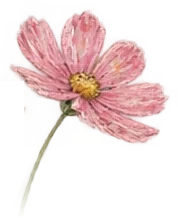
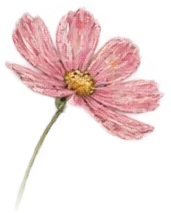
Memory flowers: choose a species when planting, ribbon marks it in the garden
Notes v6 gains gardenFlower (cosmos, daisy, poppy, lavender, allium or null for the
default); v6 snapshots without it load with null. Trồng vào vườn opens a flower picker
in Góc ghi chép, a planted note shows its flower with Đổi hoa and Nhổ khỏi vườn, and
the garden grows each memory's species with a pink ribbon instead of a white halo.
Species are cut from the approved meadow and spires art.

diff --git a/js/notes/board.js b/js/notes/board.js
@@ -1,4 +1,4 @@
-import { clampPaperSize, isMemory, MEMORY_LABEL as MEMORY } from './model.js';
+import { clampPaperSize, gardenFlower, GARDEN_FLOWERS, isMemory, MEMORY_LABEL as MEMORY } from './model.js';
 import { mountBoardPresence } from './editor.js';
 import { authEvents, getUser } from '../auth.js';
 
@@ -29,6 +29,29 @@ function button(label, action, mutation = false) {
   const node = element('button', 'notes-button', label); node.type = 'button'; node.dataset.action = action;
   if (mutation) node.dataset.mutation = '';
   return node;
+}
+const flowerImage = id => new URL(`../../assets/flowers/memory-${id}.webp`, import.meta.url).href;
+/** Flower picker for planting a memory: a radio group of the garden species; onSubmit receives the chosen id. */
+export function pickFlower(container, { current = null, planted = false, signal, onSubmit }) {
+  const dialog = element('dialog', 'notes-dialog notes-flower-dialog'); dialog.setAttribute('aria-labelledby', 'notes-flower-title');
+  const form = element('form', 'notes-flower-form'), group = element('fieldset', 'notes-flower-options');
+  const legend = element('legend', '', planted ? 'Đổi hoa cho kỷ niệm' : 'Chọn hoa để trồng vào vườn'); legend.id = 'notes-flower-title'; group.append(legend);
+  const chosen = gardenFlower(current).id;
+  for (const flower of GARDEN_FLOWERS) {
+    const option = element('label', 'notes-flower-option'), input = document.createElement('input'), image = document.createElement('img');
+    input.type = 'radio'; input.name = 'flower'; input.value = flower.id; input.checked = flower.id === chosen;
+    image.src = flowerImage(flower.id); image.alt = ''; image.width = 56; image.height = 64; image.draggable = false;
+    option.append(input, image, element('span', '', flower.name)); group.append(option);
+  }
+  const submit = button(planted ? 'Đổi hoa' : '🌱 Trồng vào vườn', 'flower-save'); submit.type = 'submit';
+  const cancel = button('Hủy', 'flower-cancel'); cancel.onclick = () => dialog.close();
+  const actions = element('div', 'notes-flower-actions'); actions.append(cancel, submit);
+  form.append(group, actions); dialog.append(form); container.append(dialog);
+  const close = () => { if (dialog.open) dialog.close(); dialog.remove(); signal?.removeEventListener('abort', close); };
+  dialog.addEventListener('close', close, { once: true }); signal?.addEventListener('abort', close, { once: true });
+  form.addEventListener('submit', event => { event.preventDefault(); const id = form.elements.flower.value; close(); onSubmit(id); });
+  dialog.showModal(); form.querySelector('input:checked').focus();
+  return close;
 }
 /** option: label of an extra checkbox; onSubmit then also receives whether it is checked. */
 export function askName(container, { title, value = '', option = '', signal, onSubmit }) {
@@ -129,7 +152,7 @@ export function mountBoard(container, { client, signal, mountEditor, mountMedia,
     const entity = selected(); inspector.hidden = !state?.writable || !entity;
     if (inspector.hidden) { inspector.replaceChildren(); inspectorKey = ''; return; }
     const columns = state.snapshot.columns.filter(c => !c.deletedAt);
-    const key = `${selection.kind}:${entity.id}:${columns.map(c => c.id + c.name).join()}:${entity.visibility}:${entity.labels?.join('|')}:${entity.memoryDate}:${entity.garden}`;
+    const key = `${selection.kind}:${entity.id}:${columns.map(c => c.id + c.name).join()}:${entity.visibility}:${entity.labels?.join('|')}:${entity.memoryDate}:${entity.garden}:${entity.gardenFlower}`;
     if (key === inspectorKey) {
       const select = inspector.querySelector('select'); if (select && document.activeElement !== select) select.value = entity.columnId || '';
       for (const field of ['width', 'height']) { const input = inspector.querySelector(`[name=${field}]`); if (input && document.activeElement !== input) input.value = Math.round(entity[field]); }
@@ -165,8 +188,10 @@ export function mountBoard(container, { client, signal, mountEditor, mountMedia,
       if (isMemory(entity.labels)) {
         const memory = element('div', 'notes-memory-edit'), dateLabel = element('label', '', 'Ngày kỷ niệm'), date = document.createElement('input');
         date.type = 'date'; date.name = 'memoryDate'; date.value = entity.memoryDate || ''; date.dataset.action = 'note-memory-date'; date.dataset.mutation = ''; dateLabel.append(date);
-        const garden = button(entity.garden ? 'Nhổ khỏi vườn' : '🌱 Trồng vào vườn', 'note-garden', true); garden.setAttribute('aria-pressed', String(entity.garden));
-        memory.append(dateLabel, garden); inspector.append(memory);
+        memory.append(dateLabel);
+        if (entity.garden) memory.append(element('span', 'notes-garden-flower', `🌱 ${gardenFlower(entity.gardenFlower).name}`), button('Đổi hoa', 'note-garden-pick', true), button('Nhổ khỏi vườn', 'note-garden-remove', true));
+        else memory.append(button('🌱 Trồng vào vườn', 'note-garden-pick', true));
+        inspector.append(memory);
       }
     } else inspector.append(button('Đổi tên cột', 'column-rename', true));
     inspector.append(button('Bỏ vào thùng rác', 'object-trash', true));
@@ -244,7 +269,7 @@ export function mountBoard(container, { client, signal, mountEditor, mountMedia,
         const view = effectiveView(state.snapshot?.visibility, entity.visibility);
         const memory = isMemory(entity.labels);
         const badges = [[viewLabel(view), `note-view is-${view === 'public' || view === 'shared' ? view : 'private'}`], ...(entity.labels || []).map(label => [label, isMemory([label]) ? 'note-label is-memory' : 'note-label']),
-          ...(memory && entity.memoryDate ? [[dayLabel(entity.memoryDate), 'note-label is-memory-date']] : []), ...(memory && entity.garden ? [['🌱 Trong vườn', 'note-label is-garden']] : [])];
+          ...(memory && entity.memoryDate ? [[dayLabel(entity.memoryDate), 'note-label is-memory-date']] : []), ...(memory && entity.garden ? [[`🌱 ${gardenFlower(entity.gardenFlower).name}`, 'note-label is-garden']] : [])];
         const badgeKey = JSON.stringify(badges);
         if (record.badgeKey !== badgeKey) { record.badgeKey = badgeKey; record.badges.replaceChildren(...badges.map(([text, className]) => element('span', className, text))); }
         record.node.classList.toggle('is-filtered', !!filter && !entity.labels?.includes(filter));
@@ -337,7 +362,8 @@ export function mountBoard(container, { client, signal, mountEditor, mountMedia,
       if (action === 'note-color') await mutate('note.update',{id:entity.id,color:control.dataset.color});
       if (action === 'label-remove') await mutate('note.update',{id:entity.id,labels:entity.labels.filter(label=>label!==control.dataset.label)});
       if (action === 'label-memory') await addLabel(entity, MEMORY);
-      if (action === 'note-garden') await mutate('note.update',{id:entity.id,garden:!entity.garden});
+      if (action === 'note-garden-pick') pickFlower(root,{current:entity.gardenFlower,planted:entity.garden,signal:controller.signal,onSubmit:id=>run(()=>mutate('note.update',{id:entity.id,garden:true,gardenFlower:id}))});
+      if (action === 'note-garden-remove') await mutate('note.update',{id:entity.id,garden:false});
       if (action === 'label-add') { const input = inspector.querySelector('[name=label]'); await addLabel(entity, input.value); }
       if (action === 'object-trash') await mutate(`${selection.kind}.trash`,{id:entity.id});
       if (action === 'column-rename') askName(root,{title:'Đổi tên cột',value:entity.name,signal:controller.signal,onSubmit:name=>run(()=>mutate('column.update',{id:entity.id,name}))});

diff --git a/js/notes/model.js b/js/notes/model.js
@@ -13,6 +13,12 @@ export const MEMORY_LABEL = 'Kỷ niệm';
 export function isMemory(labels) {
   return (labels ?? []).some(label => label.normalize('NFC').toLocaleLowerCase('vi') === MEMORY_LABEL.toLocaleLowerCase('vi'));
 }
+// Flowers a planted memory can grow as (assets/flowers/memory-<id>.webp); null means the first one.
+export const GARDEN_FLOWERS = Object.freeze([
+  { id: 'cosmos', name: 'Cánh bướm hồng' }, { id: 'daisy', name: 'Cúc họa mi' }, { id: 'poppy', name: 'Anh túc cam' },
+  { id: 'lavender', name: 'Oải hương' }, { id: 'allium', name: 'Cầu tím' },
+].map(Object.freeze));
+export const gardenFlower = id => GARDEN_FLOWERS.find(flower => flower.id === id) ?? GARDEN_FLOWERS[0];
 export function notesError(code, message = code, status = 400) {
   return Object.assign(new Error(message), { code, status });
 }
@@ -110,7 +116,7 @@ function checkEntity(kind, value) {
   const fields = {
     board: ['id', 'name', 'authorId', 'visibility', 'noteDefault', 'revision', 'metadataRevision', 'deletedAt'],
     column: ['id', 'boardId', 'name', ...geometry, 'revision', 'deletedAt'],
-    note: ['id', 'boardId', 'columnId', 'authorId', ...geometry, 'color', 'visibility', 'labels', 'memoryDate', 'garden', 'revision', 'deletedAt'],
+    note: ['id', 'boardId', 'columnId', 'authorId', ...geometry, 'color', 'visibility', 'labels', 'memoryDate', 'garden', 'gardenFlower', 'revision', 'deletedAt'],
     // Stickers live on the board in world coordinates; noteId/columnId (at most one) is what they follow when moved or trashed.
     decoration: ['id', 'boardId', 'noteId', 'columnId', 'assetId', ...geometry, 'rotation', 'z', 'revision', 'deletedAt'],
   };
@@ -130,6 +136,7 @@ function checkEntity(kind, value) {
       if (normalizeLabels(value.labels).some((label, i) => label !== value.labels[i])) throw notesError('invalid_labels');
       memoryDate(value.memoryDate);
       if (typeof value.garden !== 'boolean' || (value.garden && !isMemory(value.labels))) throw notesError('invalid_garden');
+      if (value.gardenFlower !== null && !GARDEN_FLOWERS.some(flower => flower.id === value.gardenFlower)) throw notesError('invalid_garden_flower');
     }
     if (kind === 'decoration') {
       requireId(value.assetId); number(value.rotation); number(value.z);
@@ -243,11 +250,11 @@ export function applyMetadataCommand(current, userId, command, { now = new Date(
       requireKeys(p, ['id', 'name', ...geometry]);
       entity = add(kind, { ...p, name: name(p.name), boardId, revision: 1, deletedAt: null });
     } else if (kind === 'note') {
-      requireKeys(p, ['id', 'columnId', ...geometry, 'color'], ['visibility', 'labels', 'memoryDate', 'garden']);
+      requireKeys(p, ['id', 'columnId', ...geometry, 'color'], ['visibility', 'labels', 'memoryDate', 'garden', 'gardenFlower']);
       if (p.columnId !== null) active(state, 'column', mustFind(state, 'column', p.columnId, boardId));
       // A journal board's pages start private even when an older or offline client leaves visibility out.
       const visibility = board.noteDefault === 'private' && !('visibility' in p) ? userId : null;
-      entity = add(kind, { visibility, memoryDate: null, garden: false, ...p, labels: normalizeLabels(p.labels ?? []), boardId, authorId: userId, revision: 1, deletedAt: null });
+      entity = add(kind, { visibility, memoryDate: null, garden: false, gardenFlower: null, ...p, labels: normalizeLabels(p.labels ?? []), boardId, authorId: userId, revision: 1, deletedAt: null });
     } else if (kind === 'decoration' && action === 'add') {
       requireKeys(p, ['id', 'assetId', ...geometry, 'rotation', 'z'], ['noteId', 'columnId']);
       checkAttachment(state, p, boardId, userId);
@@ -262,7 +269,7 @@ export function applyMetadataCommand(current, userId, command, { now = new Date(
       touch(kind, entity, () => { entity.deletedAt = action === 'restore' ? null : now; });
     } else if (action === 'update' || (kind === 'note' && action === 'move')) {
       const allowed = kind === 'column' ? ['name', ...geometry] : kind === 'note'
-        ? action === 'move' ? ['columnId', 'x', 'y'] : [...geometry, 'color', 'visibility', 'labels', 'memoryDate', 'garden'] : [...geometry, 'rotation', 'z', 'noteId', 'columnId'];
+        ? action === 'move' ? ['columnId', 'x', 'y'] : [...geometry, 'color', 'visibility', 'labels', 'memoryDate', 'garden', 'gardenFlower'] : [...geometry, 'rotation', 'z', 'noteId', 'columnId'];
       requireKeys(p, ['id'], allowed);
       if (Object.keys(p).length === 1) throw notesError('invalid_fields');
       active(state, kind, entity);

diff --git a/js/tabs/garden.js b/js/tabs/garden.js
@@ -1,9 +1,14 @@
 // The garden tab owns lettering and the memory flowers; the shell owns the landscape.
 import { apiRequest, authEvents, getUser } from '../auth.js';
+import { gardenFlower } from '../notes/model.js';
 
 const FOCUS_KEY = 'homie-notes:focus';
 const NAME = { minhle: 'Minh', haiyen: 'Yến' };
-const FLOWER = new URL('../../assets/flowers/memory-cosmos.webp', import.meta.url).href;
+// Per species: height relative to the others (so a round allium does not dwarf a lavender spike) and where on the
+// picture (% from the left/top) the ribbon is tied around its stem.
+const SPECIES = { cosmos: [1, 22, 70], daisy: [0.86, 69, 70], poppy: [0.96, 72, 72], lavender: [1.08, 27, 80], allium: [0.8, 52, 84] };
+// A ribbon bow marks a memory flower; it is a bow, not a flower, so it may be drawn here.
+const RIBBON = '<svg class="memory-ribbon" viewBox="0 0 40 30" aria-hidden="true"><path d="M20 13C12 3 2 5 4 12s10 5 16 3zM20 13c8-10 18-8 16-1s-10 5-16 3z" fill="#e98fab" stroke="#c76687" stroke-width="1.6" stroke-linejoin="round"/><path d="M19 15l-6 13 4-1 3-10 3 10 4 1-6-13z" fill="#e98fab" stroke="#c76687" stroke-width="1.6" stroke-linejoin="round"/><circle cx="20" cy="14" r="3.2" fill="#c76687"/></svg>';
 // Stem-base spots inside the meadow band, as % of the viewport: clear of the lettering and both Loopy.
 const WIDE = [[30, 71], [41, 70], [51, 71], [61, 70], [71, 71], [81, 69], [35, 83], [46, 84], [56, 83], [66, 84],
   [27, 95], [38, 96], [49, 95], [59, 96], [69, 95]];
@@ -103,13 +108,18 @@ export function render(container, { signal } = {}) {
       flower.type = 'button';
       flower.className = 'memory-flower';
       flower.setAttribute('aria-label', `Hoa kỷ niệm: ${item.title || 'Kỷ niệm'}`);
-      flower.style.cssText = `--x:${wide[0]};--y:${wide[1]};--px:${phone[0]};--py:${phone[1]};--sx:${short[0]};--sy:${short[1]};--size:${0.92 + (h % 5) * 0.04};--delay:${-(h % 7)}s`;
-      if (h & 1) flower.classList.add('is-mirrored');
+      const species = gardenFlower(item.gardenFlower).id, [scale, rx, ry] = SPECIES[species];
+      flower.dataset.flower = species;
+      flower.style.cssText = `--x:${wide[0]};--y:${wide[1]};--px:${phone[0]};--py:${phone[1]};--sx:${short[0]};--sy:${short[1]};--size:${scale * (0.94 + (h % 5) * 0.03)};--rx:${rx}%;--ry:${ry}%;--delay:${-(h % 7)}s`;
+      const stem = document.createElement('span');
+      stem.className = h & 1 ? 'memory-plant is-mirrored' : 'memory-plant';
+      stem.innerHTML = RIBBON;
       const picture = document.createElement('img');
-      picture.src = FLOWER;
+      picture.src = new URL(`../../assets/flowers/memory-${species}.webp`, import.meta.url).href;
       picture.alt = '';
       picture.draggable = false;
-      flower.append(picture);
+      stem.prepend(picture);
+      flower.append(stem);
       flower.addEventListener('click', () => openMemory(item, flower));
       return flower;
     }));

diff --git a/tests/notes-model.test.js b/tests/notes-model.test.js
@@ -1,7 +1,7 @@
 import test from 'node:test';
 import assert from 'node:assert/strict';
 import { randomUUID } from 'node:crypto';
-import { emptyNotesState, applyMetadataCommand, projectBoard, validateNotesState, clampPaperSize } from '../js/notes/model.js';
+import { emptyNotesState, applyMetadataCommand, projectBoard, validateNotesState, clampPaperSize, GARDEN_FLOWERS, gardenFlower } from '../js/notes/model.js';
 
 const boardId = randomUUID(), columnId = randomUUID(), otherColumnId = randomUUID(), noteId = randomUUID();
 function apply(state, type, payload, accountId = 'minhle', board = boardId) {
@@ -103,6 +103,25 @@ test('journal boards and memories: noteDefault, memoryDate and garden only on a 
   assert.equal(state.notes[0].memoryDate, '2026-10-12', 'The date stays for when the label comes back');
   const created = apply(state, 'note.create', { id: randomUUID(), columnId: null, x: 0, y: 0, width: 100, height: 100, color: '#ffffff', labels: ['Kỷ niệm'], memoryDate: '2025-01-01', garden: true });
   assert.equal(created.notes.at(-1).garden, true);
+  assert.equal(created.notes.at(-1).gardenFlower, null, 'No flower chosen: the garden shows the default one');
+});
+
+test('gardenFlower: one of the garden species or null, chosen on create or update', () => {
+  let state = apply(fixture(), 'note.update', { id: noteId, labels: ['Kỷ niệm'], memoryDate: '2026-10-12' });
+  assert.equal(state.notes[0].gardenFlower, null);
+  for (const gardenFlower of ['rose', '', 1, 'Cosmos']) {
+    assert.throws(() => apply(state, 'note.update', { id: noteId, garden: true, gardenFlower }), { code: 'invalid_garden_flower' });
+  }
+  state = apply(state, 'note.update', { id: noteId, garden: true, gardenFlower: 'poppy' }, 'haiyen');
+  assert.deepEqual([state.notes[0].garden, state.notes[0].gardenFlower], [true, 'poppy']);
+  state = apply(state, 'note.update', { id: noteId, gardenFlower: 'lavender' });
+  assert.equal(state.notes[0].gardenFlower, 'lavender', 'Đổi hoa keeps it planted');
+  state = apply(state, 'note.update', { id: noteId, garden: false });
+  assert.deepEqual([state.notes[0].garden, state.notes[0].gardenFlower], [false, 'lavender'], 'Unplanting keeps the last choice');
+  const created = apply(state, 'note.create', { id: randomUUID(), columnId: null, x: 0, y: 0, width: 100, height: 100, color: '#ffffff', labels: ['Kỷ niệm'], garden: true, gardenFlower: 'daisy' });
+  assert.equal(created.notes.at(-1).gardenFlower, 'daisy');
+  assert.equal(gardenFlower(null).id, GARDEN_FLOWERS[0].id);
+  assert.equal(gardenFlower('allium').name, 'Cầu tím');
 });
 
 test('a journal page created without visibility stays private to its author on the server', () => {

diff --git a/tests/garden-api.test.js b/tests/garden-api.test.js
@@ -52,10 +52,10 @@ test('GET /api/garden: members see only visible planted memories, trash hides th
   const [open, journal] = [randomUUID(), randomUUID()];
   await command('minhle', open, 'board.create', { name: 'Vườn nhà mình', visibility: 'public' });
   await command('haiyen', journal, 'board.create', { name: 'Nhật ký của Yến', visibility: 'shared', noteDefault: 'private' });
-  const sea = await note('minhle', open, ['Đi biển Vũng Tàu', 'Gió to, cát bay.', 'Về muộn.'], { labels: ['Kỷ niệm'], memoryDate: '2026-10-12', garden: true });
+  const sea = await note('minhle', open, ['Đi biển Vũng Tàu', 'Gió to, cát bay.', 'Về muộn.'], { labels: ['Kỷ niệm'], memoryDate: '2026-10-12', garden: true, gardenFlower: 'poppy' });
   const unplanted = await note('minhle', open, ['Chưa trồng'], { labels: ['Kỷ niệm'], memoryDate: '2026-10-01', garden: false });
   const secret = await note('haiyen', journal, ['Bí mật của Yến'], { labels: ['Kỷ niệm'], memoryDate: '2026-09-01', garden: true, visibility: 'haiyen' });
-  const shared = await note('haiyen', journal, ['Bữa cơm đầu tiên'], { labels: ['Kỷ niệm'], memoryDate: '2026-11-02', garden: true });
+  const shared = await note('haiyen', journal, ['Bữa cơm đầu tiên'], { labels: ['Kỷ niệm'], memoryDate: '2026-11-02', garden: true, visibility: null });
   const trashed = await note('minhle', open, ['Sẽ vào thùng rác'], { labels: ['Kỷ niệm'], memoryDate: '2026-10-05', garden: true });
   await command('minhle', open, 'note.trash', { id: trashed });
 
@@ -63,7 +63,8 @@ test('GET /api/garden: members see only visible planted memories, trash hides th
   const minh = await garden('minhle');
   assert.deepEqual(minh.map(item => item.noteId), [sea, shared], 'Yến’s private page, unplanted and trashed memories stay out');
   assert.deepEqual(minh[0], { noteId: sea, boardId: open, boardName: 'Vườn nhà mình', title: 'Đi biển Vũng Tàu',
-    memoryDate: '2026-10-12', authorId: 'minhle', body: 'Gió to, cát bay.\nVề muộn.' });
+    memoryDate: '2026-10-12', gardenFlower: 'poppy', authorId: 'minhle', body: 'Gió to, cát bay.\nVề muộn.' });
+  assert.equal(minh[1].gardenFlower, null, 'No choice yet: the garden shows the default species');
   assert.deepEqual((await garden('haiyen')).map(item => item.noteId), [secret, sea, shared]);
   assert.ok(!(await garden('haiyen')).some(item => item.noteId === unplanted));
 

diff --git a/styles/garden-flowers.css b/styles/garden-flowers.css
@@ -1,12 +1,15 @@
 /* Phần G: hoa kỷ niệm trong vườn. Positions come from garden.js as % of the viewport (--x/--y wide, --px/--py phone). */
 .memory-flowers{position:absolute;inset:0;z-index:5;pointer-events:none}
-.memory-flower{--h:calc(clamp(72px,min(10vh,10.5vw),100px) * var(--size,1));position:absolute;left:calc(var(--x) * 1%);top:calc(var(--y) * 1%);width:calc(var(--h) * .82);min-width:44px;height:var(--h);min-height:44px;margin:0;padding:0;border:0;border-radius:40% 40% 12px 12px;background:radial-gradient(ellipse 56% 42% at 50% 34%,#fffe,#fff9 42%,#fff0 76%);transform:translate(-50%,-100%);pointer-events:auto;cursor:pointer;-webkit-tap-highlight-color:transparent}
-.memory-flower img{display:block;width:100%;height:100%;object-fit:contain;object-position:bottom;filter:drop-shadow(0 0 2px #fff) drop-shadow(0 0 10px #fff);transform-origin:50% 100%;transition:transform 200ms ease}
-.memory-flower.is-mirrored img{scale:-1 1}
-.memory-flower:hover img{transform:scale(1.06)}
+.memory-flower{--h:calc(clamp(72px,min(10vh,10.5vw),100px) * var(--size,1));position:absolute;left:calc(var(--x) * 1%);top:calc(var(--y) * 1%);display:flex;justify-content:center;align-items:flex-end;min-width:44px;height:var(--h);min-height:44px;margin:0;padding:0;border:0;border-radius:12px;background:none;transform:translate(-50%,-100%);pointer-events:auto;cursor:pointer;-webkit-tap-highlight-color:transparent}
+.memory-plant{position:relative;display:block;height:100%;transform-origin:50% 100%}
+.memory-plant.is-mirrored{scale:-1 1}
+.memory-plant img{display:block;width:auto;height:100%}
+.memory-ribbon{position:absolute;left:var(--rx);top:var(--ry);width:max(18px,calc(var(--h) / var(--size,1) * .38));height:auto;transform:translate(-50%,-35%);filter:drop-shadow(0 1px 1px #8a3f5c40)}
+.memory-flower:hover .memory-plant{transform:scale(1.05)}
 .memory-flower:focus-visible{outline:3px solid #985a74;outline-offset:3px}
 @media (prefers-reduced-motion:no-preference){
-  .memory-flower img{animation:memory-sway 6s ease-in-out var(--delay,0s) infinite}
+  .memory-plant{animation:memory-sway 6s ease-in-out var(--delay,0s) infinite}
+  .memory-flower .memory-plant{transition:transform 200ms ease}
 }
 @keyframes memory-sway{0%,100%{rotate:-2deg}50%{rotate:2deg}}
 @media (max-width:599px){.memory-flower{--h:calc(clamp(64px,9vh,80px) * var(--size,1));left:calc(var(--px) * 1%);top:calc(var(--py) * 1%)}}

diff --git a/tests/notes-store.test.js b/tests/notes-store.test.js
@@ -440,7 +440,7 @@ test('format 5 snapshots migrate to format 6 without journal or memory, and keep
   const f = await fixture(t), moved = await f.send('note.update', { id: f.noteId, x: 40 });
   await f.store.close();
   const path = join(f.dataDir, 'notes.json'), saved = JSON.parse(await readFile(path, 'utf8'));
-  const strip = ({ noteDefault, memoryDate, garden, ...record }) => record;
+  const strip = ({ noteDefault, memoryDate, garden, gardenFlower, ...record }) => record;
   saved.formatVersion = 5;
   saved.boards = saved.boards.map(strip); saved.notes = saved.notes.map(strip);
   for (const change of saved.operations.flatMap(op => op.undo?.changes ?? [])) {
@@ -448,8 +448,24 @@ test('format 5 snapshots migrate to format 6 without journal or memory, and keep
   }
   await writeFile(path, JSON.stringify(saved));
   const store = await f.reopen(), board = store.privateBoard(f.boardId);
-  assert.deepEqual([board.noteDefault, board.notes[0].memoryDate, board.notes[0].garden], [null, null, false]);
+  assert.deepEqual([board.noteDefault, board.notes[0].memoryDate, board.notes[0].garden, board.notes[0].gardenFlower], [null, null, false, null]);
   await f.send('command.undo', { operationId: moved.operationId });
   assert.equal(store.privateBoard(f.boardId).notes[0].x, 10, 'Undo recorded before the migration still works');
   assert.equal(JSON.parse(await readFile(path, 'utf8')).formatVersion, 6);
+});
+
+test('format 6 snapshots written before gardenFlower existed load with gardenFlower null', async t => {
+  const f = await fixture(t), moved = await f.send('note.update', { id: f.noteId, x: 40 });
+  await f.store.close();
+  const path = join(f.dataDir, 'notes.json'), saved = JSON.parse(await readFile(path, 'utf8'));
+  const strip = ({ gardenFlower, ...record }) => record;
+  saved.notes = saved.notes.map(strip);
+  for (const change of saved.operations.flatMap(op => op.undo?.changes ?? [])) if (change.kind === 'note') {
+    change.after = strip(change.after); if (change.before) change.before = strip(change.before);
+  }
+  await writeFile(path, JSON.stringify(saved));
+  const store = await f.reopen();
+  assert.equal(store.privateBoard(f.boardId).notes[0].gardenFlower, null);
+  await f.send('command.undo', { operationId: moved.operationId });
+  assert.equal(store.privateBoard(f.boardId).notes[0].x, 10, 'Undo still works');
 });

diff --git a/backend/notes-store.js b/backend/notes-store.js
@@ -144,10 +144,11 @@ function validateInverse(undo, target) {
 // where the sticker's centre lies (topmost note, else column). Undo records hold older shapes, so they are dropped.
 // Version 5 adds who may view: existing boards stay public (their author is whoever ran board.create), notes follow
 // their board and start without labels.
-// Version 6 adds journals and memories: boards get noteDefault null, notes memoryDate null and garden false. Undo
-// records gain the same defaults, so history survives this step.
+// Version 6 adds journals and memories: boards get noteDefault null, notes memoryDate null, garden false and
+// gardenFlower null. Undo records gain the same defaults, so history survives this step. gardenFlower joined v6 before
+// it shipped, so v6 snapshots written without it get the default too (the step only fills missing fields).
 export function migrateNotesSnapshot(saved) {
-  if (![2, 3, 4, 5].includes(saved?.formatVersion)) return saved;
+  if (![2, 3, 4, 5, 6].includes(saved?.formatVersion)) return saved;
   const state = saved.formatVersion >= 4 ? clone(saved) : migrateStickers(saved);
   if (state.formatVersion < 5) {
     state.boards = state.boards.map(board => ({ ...board,
@@ -156,7 +157,7 @@ export function migrateNotesSnapshot(saved) {
     for (const op of state.operations) op.undo = null;
   }
   const v6 = (kind, record) => !record ? record : kind === 'board' ? { noteDefault: null, ...record }
-    : kind === 'note' ? { memoryDate: null, garden: false, ...record } : record;
+    : kind === 'note' ? { memoryDate: null, garden: false, gardenFlower: null, ...record } : record;
   state.boards = state.boards.map(board => v6('board', board));
   state.notes = state.notes.map(note => v6('note', note));
   for (const change of state.operations.flatMap(op => op.undo?.changes ?? [])) {

diff --git a/styles/notes.css b/styles/notes.css
@@ -234,3 +234,15 @@
 @keyframes notes-focus{50%{outline-color:#f3c3d3}}
 @media(prefers-reduced-motion:reduce){.paper-note.is-focused{animation:none}}
 .notes-name-form .notes-name-option{display:flex;align-items:center;gap:10px;min-height:44px;margin:0;font:15px system-ui;cursor:pointer}.notes-name-form .notes-name-option input{width:20px;height:20px;margin:0;accent-color:#a46c84}
+/* Planting a memory: pick the flower that grows for it in the garden. */
+.notes-flower-form{display:grid;gap:14px}
+.notes-flower-options{display:grid;grid-template-columns:repeat(auto-fill,minmax(96px,1fr));gap:8px;min-width:0;margin:0;padding:0;border:0}
+.notes-flower-options legend{margin:0 0 10px;padding:0;font:21px Georgia,serif}
+.notes-flower-option{position:relative;display:grid;justify-items:center;gap:4px;min-height:44px;padding:8px 6px;border:1px solid #e3cfcf;border-radius:14px;background:#fffdf9;color:#684b59;font:14px system-ui;text-align:center;cursor:pointer}
+.notes-flower-option input{position:absolute;inset:0;width:100%;height:100%;margin:0;opacity:0;cursor:pointer}
+.notes-flower-option img{width:56px;height:64px;object-fit:contain;pointer-events:none}
+.notes-flower-option:has(input:checked){border:2px solid #c76687;background:#fbe7ee;color:#8a3f5c;font-weight:600}
+.notes-flower-option:has(input:focus-visible){outline:3px solid var(--paper-focus,#8b4f68);outline-offset:2px}
+.notes-flower-actions{display:flex;justify-content:flex-end;gap:10px}
+.notes-garden-flower{display:inline-flex;align-items:center;min-height:44px;padding:0 6px;color:#4f6b4b;font-weight:600}
+@media(min-width:601px){.notes-flower-dialog{width:min(540px,calc(100vw - 32px))}}

diff --git a/backend/notes-memories.js b/backend/notes-memories.js
@@ -11,7 +11,7 @@ function firstLine(node) {
  * Memories viewerId (account id, or null for a guest) may see via canSee, skipping trashed notes (and notes in a
  * trashed column or board), with from/to ('YYYY-MM-DD', inclusive) filtering memoryDate and gardenOnly keeping
  * garden: true. A memory without a date only appears when no range is given. Sorted by date. Synchronous.
- * @returns {{noteId: string, boardId: string, title: string, memoryDate: string|null, garden: boolean}[]}
+ * @returns {{noteId: string, boardId: string, title: string, memoryDate: string|null, garden: boolean, gardenFlower: string|null}[]}
  */
 export function listMemories(store, viewerId, { from, to, gardenOnly = false } = {}) {
   // ponytail: decodes every visible note's text per call; index memories if boards grow past a few hundred notes.
@@ -19,6 +19,6 @@ export function listMemories(store, viewerId, { from, to, gardenOnly = false } =
     .filter(note => isMemory(note.labels) && (!gardenOnly || note.garden)
       && (from == null && to == null || note.memoryDate !== null
         && (from == null || note.memoryDate >= from) && (to == null || note.memoryDate <= to)))
-    .map(note => ({ noteId: note.id, boardId: note.boardId, title: firstLine(note.content), memoryDate: note.memoryDate, garden: note.garden }))
+    .map(note => ({ noteId: note.id, boardId: note.boardId, title: firstLine(note.content), memoryDate: note.memoryDate, garden: note.garden, gardenFlower: note.gardenFlower }))
     .sort((a, b) => (a.memoryDate ?? '9999').localeCompare(b.memoryDate ?? '9999') || a.noteId.localeCompare(b.noteId));
 }

diff --git a/js/notes/client.js b/js/notes/client.js
@@ -182,7 +182,7 @@ export async function openBoardClient({ boardId, accountId = null, signal, trans
     // Defaults cover snapshots cached on the device before format 6 (journals and memories).
     let state = { boards: [{ id: snapshot.id, name: snapshot.name, authorId: snapshot.authorId, visibility: snapshot.visibility, noteDefault: snapshot.noteDefault ?? null,
       revision: snapshot.revision, metadataRevision: snapshot.metadataRevision, deletedAt: snapshot.deletedAt }],
-      columns: clone(snapshot.columns), notes: snapshot.notes.map(note => ({ memoryDate: null, garden: false, ...clone(note) })), decorations: clone(snapshot.decorations) };
+      columns: clone(snapshot.columns), notes: snapshot.notes.map(note => ({ memoryDate: null, garden: false, gardenFlower: null, ...clone(note) })), decorations: clone(snapshot.decorations) };
     for (const entry of [...awaitingSnapshots.values(), ...queue]) if (entry.kind === 'command' && entry.command.type !== 'command.undo') {
       try { state = applyMetadataCommand(state, accountId, entry.command, { assetExists: () => true }).state; } catch { /* Server resolves stale/deleted metadata; retained queue is still reviewable. */ }
     }

diff --git a/tests/notes-memories.test.js b/tests/notes-memories.test.js
@@ -41,7 +41,7 @@ test('listMemories returns only memories the viewer may see, skips trash, filter
   assert.deepEqual(ids('minhle'), [sea, shared], 'A private journal page stays hidden; trash hides the flower');
   assert.deepEqual(ids('haiyen'), [secret, sea, shared]);
   assert.ok(!ids('haiyen').includes(plain));
-  assert.deepEqual(listMemories(store, null)[0], { noteId: sea, boardId: open, title: 'Đi biển Vũng Tàu', memoryDate: '2026-10-12', garden: true });
+  assert.deepEqual(listMemories(store, null)[0], { noteId: sea, boardId: open, title: 'Đi biển Vũng Tàu', memoryDate: '2026-10-12', garden: true, gardenFlower: null });
   assert.deepEqual(ids('haiyen', { gardenOnly: true }), [sea, shared]);
   assert.deepEqual(ids('haiyen', { from: '2026-10-01', to: '2026-10-31' }), [sea]);
   assert.deepEqual(ids('haiyen', { from: '2026-10-12' }), [sea, shared], 'Range ends are inclusive');
